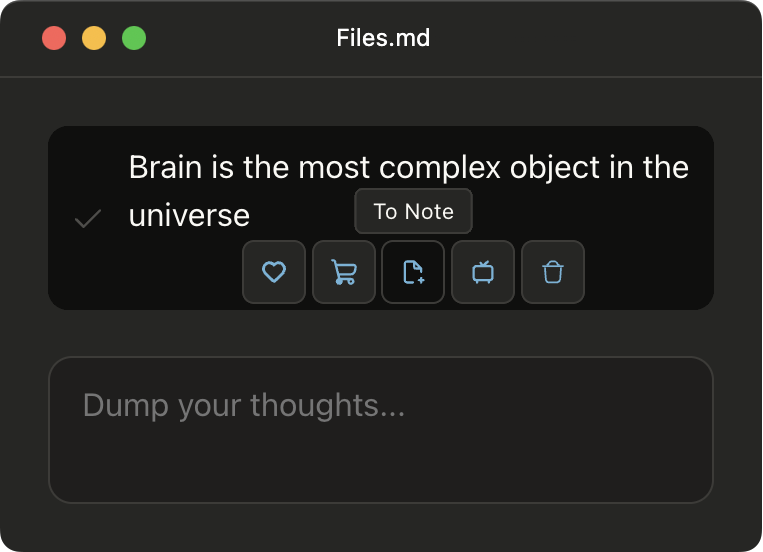
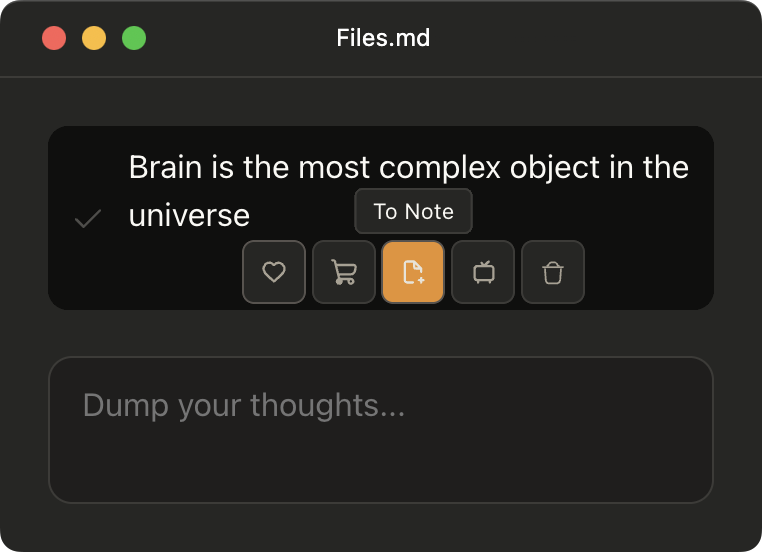
fix unified style for screens

Changed region(s): [[0.422, 0.4312, 0.6632, 0.5543], [0.3316, 0.4312, 0.3919, 0.5543], [0.6933, 0.462, 0.7536, 0.5236]]

diff --git a/web/chat.js b/web/chat.js
@@ -807,7 +807,7 @@ async function renderMessages() {
             <div class="empty-state">
                 <img class="empty-icon" src="img/icon.png" alt="">
                 <div class="empty-title">Free your head</div>
-                <div class="empty-desc">Drop whatever’s on your mind here</div>
+                <div class="empty-desc">Dump whatever’s on your mind here</div>
             </div>
         `;
         return;